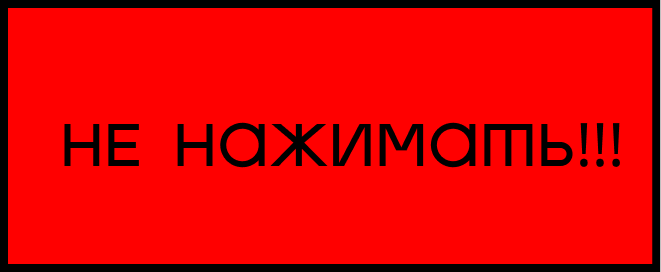
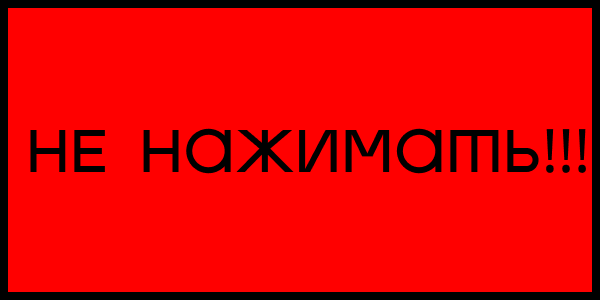
4

Changed region(s): [[0.03, 0.0, 1.0, 1.0], [0.03, 0.4118, 0.21, 0.6176]]

diff --git a/css/main.css b/css/main.css
@@ -6,14 +6,6 @@ body{
     animation: color_change 18s infinite;
 }
 
-@keyframes color_change {
-    0% {background-color: red;}
-    25% {background-color: orange;}
-    50% {background-color: yellow;}
-    75% {background-color: blue;}
-    100% {background-color: red;}
-    }
-
 p{
     color: #FFFFFF;
     font-family: 'Five Years Later Demo';
@@ -114,6 +106,12 @@ p{
 
 /*анимация чимса*/
 
+#button{
+width: 600px;
+height: 300px;
+background-image: url(../img/batt.png);
+}
+
 #dogs{
     width: 750px;
     height: 755px;
@@ -125,7 +123,6 @@ p{
 #dogs:hover{
     background-image: url(../img/big_dog.png); 
 }
-
 
 .container5{
     position: relative;

diff --git a/index.html b/index.html
@@ -30,9 +30,21 @@
 </div>
  
 <div class="container4">
-  <img class="battom" src="./img/batt.png" alt="">
+  <div class="page">
+		<button id="button" onclick="changeColor();"></button>
+	</div>
   <div id ="dogs"> </div>  
 </div>
+
+<script>
+const button = document.getElementById('button');
+const rainbow = ['red', 'orange', 'yellow', 'green', 'blue', 'rebeccapurple', 'violet'];
+
+function changeBackground(){
+	document.body.style.background = rainbow[Math.floor(7 * Math.random())];	
+}
+button.addEventListener('click', changeBackground);
+</script>
 
 <div class="container5" >
   <img class="kroto1" src="./img/kroto.png" alt="">
